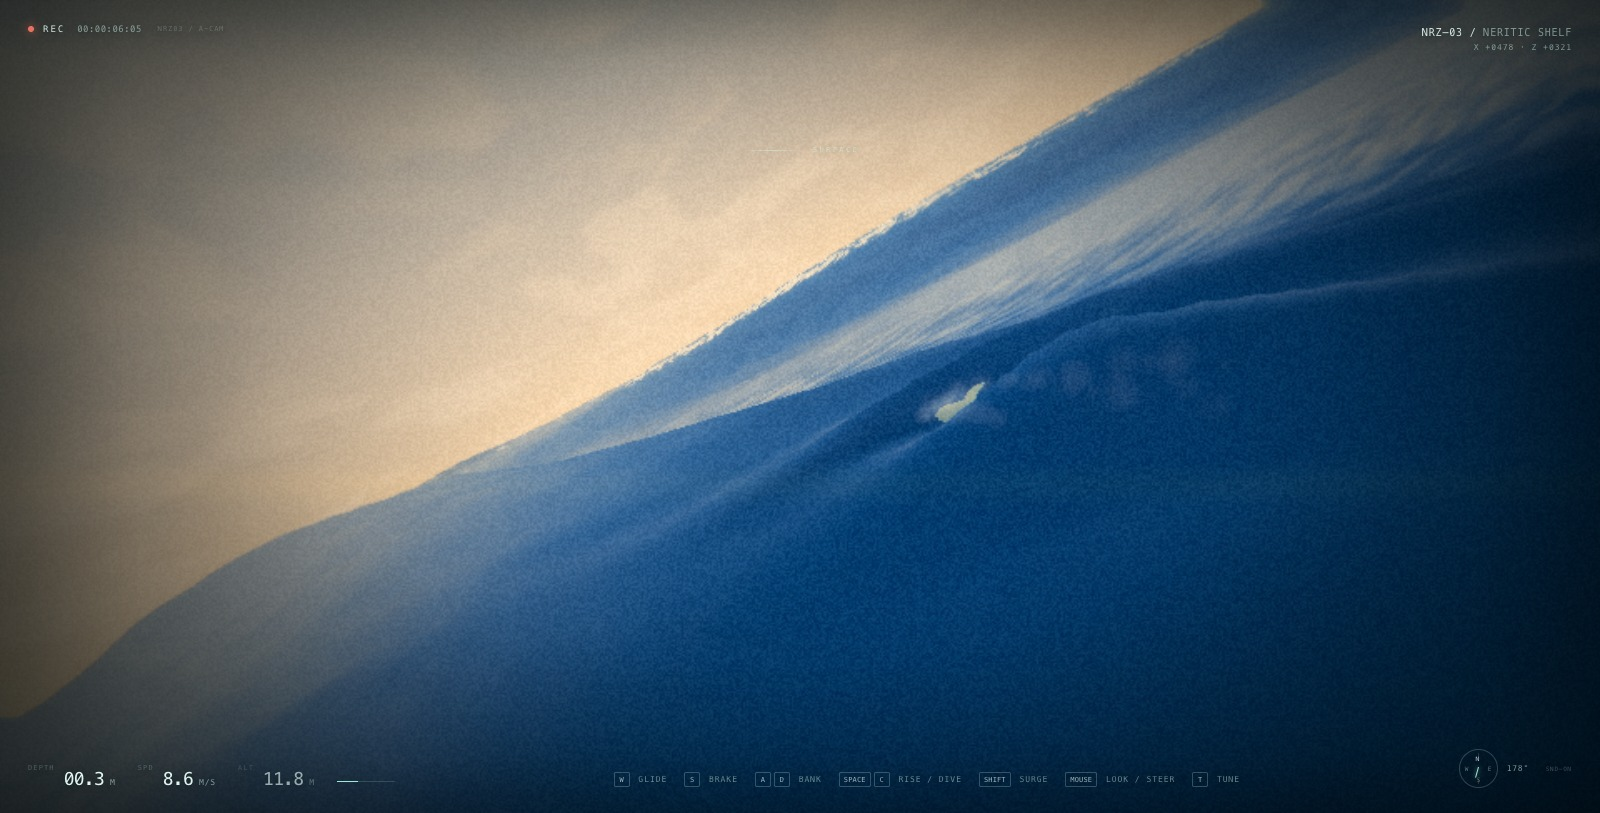
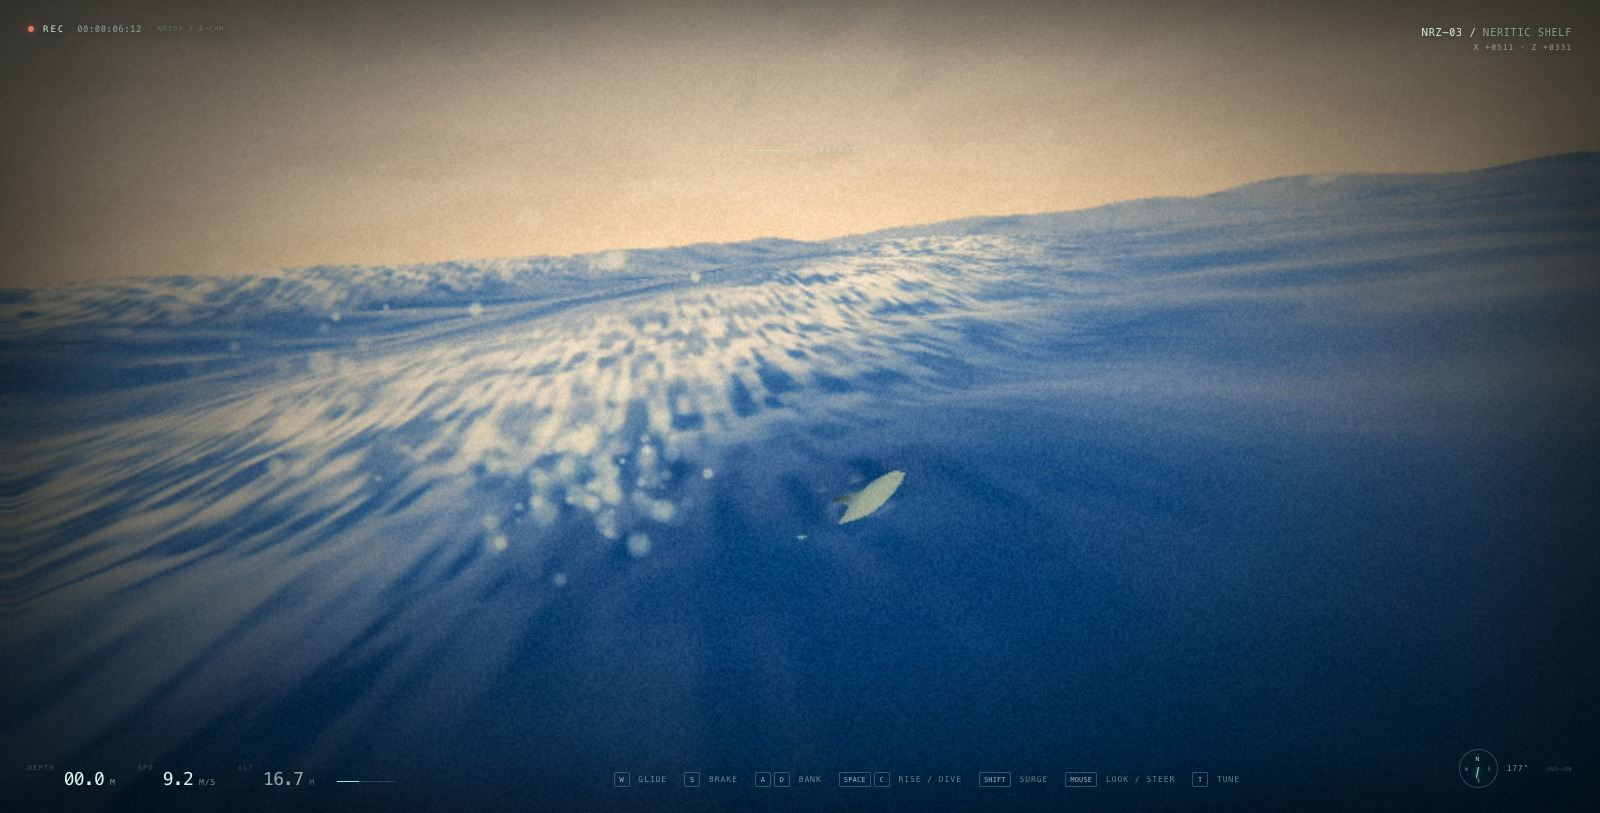
Reshape the big-wave arena into a rideable peak-and-shoulder break

diff --git a/src/config.js b/src/config.js
@@ -123,19 +123,19 @@ export const TUNING = {
     // Passive wave riding: a steep descending/along-face run fades the tail
     // stroke out and lets the local surface slope drive the body.
     coastSlope: 0.06,
-    // Surf contact: a soft attachment to a steep face. The body is held a
-    // little below the local surface, aligned to the face, and the tangential
-    // velocity is carved toward the heading instead of skating straight on.
+    // Surf contact: a soft attachment to a steep face. The body is held at the
+    // planing waterline, aligned to the face, and the tangential velocity is
+    // carved toward the heading instead of skating straight on.
     surfGrip: 10.0,
-    surfDepth: 0.35,
+    surfDepth: -0.15,
     surfMinSlope: 0.075,
     surfMinSpeed: 5.0,
     surfSpring: 70,
     surfDamp: 12,
     surfDrive: 0.9,
-    surfPump: 2.8,
+    surfPump: 2.0,
     surfCarry: 0.55,
-    surfGlide: 1.3,
+    surfGlide: 1.0,
     surfAttitude: 5.5,
     surfFaceRoll: 0.65,
     surfBank: 1.7,
@@ -242,21 +242,21 @@ export const TUNING = {
     preset: "surf",
     surfZoneX: 450,
     surfZoneZ: 300,
-    swellHeight: 18,
-    swellWavelength: 300,
-    swellWavelengthSpread: 0.08,
+    swellHeight: 13.5,
+    swellWavelength: 320,
+    swellWavelengthSpread: 0.14,
     swellDirection: 0.61,
-    swellDirectionSpread: 0.08,
+    swellDirectionSpread: 0.17,
     swellComponents: 96,
-    windSeaHeight: 0.25,
-    windSeaWavelength: 24,
+    windSeaHeight: 1.1,
+    windSeaWavelength: 46,
     windSeaWavelengthSpread: 0.35,
-    windSeaDirection: 1.02,
-    windSeaDirectionSpread: 0.62,
+    windSeaDirection: 1.55,
+    windSeaDirectionSpread: 0.7,
     windSeaComponents: 32,
     // Gerstner horizontal displacement scale. The generator computes a safe
     // base value from the total steepness; this is an artistic multiplier.
-    chop: 0.45,
+    chop: 0.36,
     timeScale: 1.0,
     startTime: 4.5,
     // Rendering / foam.
@@ -267,12 +267,12 @@ export const TUNING = {
     // dispersion and Green's-law shoaling using the baked bathymetry; the
     // breaker is a saturated, aerated crest (a heightfield cannot overhang).
     depthResponse: true,
-    shoalReference: 12,
-    shoalStrength: 0.25,
-    breakRatio: 0.85,
-    breakSoftness: 0.08,
+    shoalReference: 14,
+    shoalStrength: 0.18,
+    breakRatio: 0.9,
+    breakSoftness: 0.1,
     breakerJet: 0.35,
-    breakerLip: 0.22,
+    breakerLip: 0.12,
     aerationAmount: 0.85,
     foamPersistence: 0.6,
     // Local nonlinear shallow-water solver over the surf bank. The domain is

diff --git a/src/utils.js b/src/utils.js
@@ -111,13 +111,19 @@ export function seabedHeight(x, z) {
   const sCross = dsx * swellX + dsz * swellZ;
   const sAlong = -dsx * swellZ + dsz * swellX;
   const ridgeAlong = 1 - smoothstep(240, 360, Math.abs(sAlong));
-  const basinDepth = smoothstep(-40, -220, sCross) * 20;
-  const leeDepth = smoothstep(20, 120, sCross) * 10;
-  // A broad central peak and gentle shoulders break the wall into a peeling
-  // point break; the long-wavelength ripple avoids a perfectly uniform crest.
-  const crestPeak = Math.exp(-(sAlong * sAlong) / (2 * 150 * 150)) * 2.8;
-  const crestRipple = Math.sin(sAlong / 95) * 1.5 + Math.sin(sAlong / 41 + 1.2) * 0.55;
-  const arenaDepth = 18 + basinDepth + leeDepth - crestPeak + crestRipple;
+  // Bow the break line into a point break instead of a straight wall.
+  const sCrossCurve = sCross + Math.sin((sAlong + 35) / 190) * 14;
+  const basinDepth = smoothstep(-40, -220, sCrossCurve) * 20;
+  const leeDepth = smoothstep(20, 120, sCrossCurve) * 10;
+  // A defined peak with a long, deeper shoulder to one side makes the wave
+  // peel and gives a rideable face instead of a uniform crest.
+  const peakAlong = -35;
+  const crestPeak =
+    Math.exp(-((sAlong - peakAlong) * (sAlong - peakAlong)) / (2 * 105 * 105)) * 3.8;
+  const crestShoulder = smoothstep(0, 330, sAlong - peakAlong) * 2.2;
+  const crestRipple = Math.sin(sAlong / 82) * 1.1 + Math.sin(sAlong / 37 + 1.2) * 0.4;
+  const arenaDepth =
+    18 + basinDepth + leeDepth - crestPeak + crestShoulder + crestRipple;
 
   // Patchy reef shelf outcrops, slight raised humps.
   const shelf = Math.max(0, fbm(x * 0.0072 + 51.1, z * 0.0072 + 4.4, 2) - 0.5) * 2.7;

diff --git a/src/dolphin.js b/src/dolphin.js
@@ -950,11 +950,18 @@ export class Dolphin {
       // Soft ceiling. Crest pressure can throw a light, half-wet hull several
       // metres into the air; unless the player is boosting or asking to rise,
       // settle the back onto the waterline instead of letting it hover.
-      const capDist = targetDist + 0.55;
+      const capDist = targetDist + 0.4;
       if (!input.boost && dist > capDist) {
-        const pull = 1 - Math.exp(-18 * dt);
+        const pull = 1 - Math.exp(-30 * dt);
         this.position.y -= (dist - capDist) * pull;
-        if (this.velocity.y > 0) this.velocity.y *= 1 - 0.8 * pull;
+        if (this.velocity.y > 0) this.velocity.y *= 1 - 0.9 * pull;
+      }
+      // Hard ceiling for an unpowered ride: wave lift can still outrun the
+      // spring, but it should not turn a normal glide into a hover. Space/C or
+      // boost releases the contact before this matters.
+      if (!input.boost && this.position.y > surfWater.height + capDist + 0.25) {
+        this.position.y = surfWater.height + capDist + 0.25;
+        if (this.velocity.y > 0) this.velocity.y *= 0.25;
       }
 
       // Damped surface follow. The spring alone leaves a static offset when

diff --git a/src/water/spectrum.js b/src/water/spectrum.js
@@ -150,15 +150,15 @@ export function applyPreset(water, name) {
       foamAmount: 0.8,
     },
     surf: {
-      swellHeight: 18,
-      swellWavelength: 300,
-      windSeaHeight: 0.25,
-      windSeaWavelength: 24,
+      swellHeight: 13.5,
+      swellWavelength: 320,
+      windSeaHeight: 1.1,
+      windSeaWavelength: 46,
       swellDirection: 0.61,
-      windSeaDirection: 1.02,
-      chop: 0.45,
+      windSeaDirection: 1.55,
+      chop: 0.36,
       timeScale: 1.0,
-      foamAmount: 0.9,
+      foamAmount: 0.8,
     },
   };
   const p = presets[name];

diff --git a/README.md b/README.md
@@ -60,8 +60,8 @@ The full debug surface is available as `window.OCEAN` (ocean, seabed, dolphin, c
 - **Dolphin movement** — heading/pitch/roll flight model with angular inertia, automatic bank into the turn, and hull-force translation. Thrust is quick enough for a standing-start burst; the default surge target is **25 m/s** with **18 m/s²** boost acceleration. High-speed surface exits get a tail kick; airborne motion uses **12.5 m/s²** gravity, low lift, snappy vertical drag and snout-led air steering so a fast breach arcs back down instead of hanging. A small near-surface settling force pulls a dry, fast body back into the water when there is no upward intent, so it porpoises instead of skimming above the surface. Steering still commands the snout/attitude directly, while translation is force-driven and can be carried, turned or thrown by the water.
 - **Procedural skeletal spine** — the model is a GPU-skinned 9-bone chain. The snout is anchored to the mouse target and the camera orbits from that same look frame, so the view responds immediately while each following segment keeps its own direction, damps toward the segment ahead and is clamped to an anatomical joint cone (`headBendLimit` at the neck, `bodyBendLimit` down the spine). Fixed segment lengths and a torso-to-fluke swimming wave give the body a semi-rigid, fluid trail. The wave's frequency and amplitude follow actual swim speed and acceleration, so a burst of acceleration produces a stronger, faster stroke; the fluke adds a lagging pitch that tracks the same effort.
 - **Snout-led camera** — the chase view orbits from the same yaw/pitch target that drives the snout, with light smoothing rather than physics-body lag. The body, velocity and spine still trail behind, but the view, compass and aim lead with the animal's head.
-- **Waves** — a seeded, two-train directional spectrum: a narrow JONSWAP swell (96 components, default **18 m Hs / 300 m peak**, long crests and generous sets) plus a broader wind sea (32 components, offset direction). Both are explicit Gerstner sums with one shared deterministic clock. The exact component arrays are uploaded to the vertex shader and evaluated by `src/water/field.js` on the CPU, so `OCEAN.water.sampleHeight()` / `sampleWater()` and the rendered GPU patch agree to **mean 0.01 cm / max 0.04 cm** in the parity probe (a shader-side horizontal-displacement bug was found and fixed in M2). The surface is a camera-following radial clipmap out to 7 km; fragment shading adds three non-commensurate procedural ripple cascades (53 m, 17 m, 5.7 m), distance normal filtering, Schlick Fresnel with the existing sky palette, sun glitter, depth absorption from the bathymetry map, crest transmission and whitecaps derived from local slope, crest height and Jacobian compression. Seen from below, the underside splits into a critical-angle Snell window and total internal reflection with a turquoise rim; the full Snell/caustic pass is M5 work.
-- **Depth response, shoaling and breaking (M3; big-wave arena)** — a shared 256² bathymetry field (baked from the same `seabedHeight()` used by the sand, reef and floor collision) drives finite-depth dispersion (`k/k0 = 1/sqrt(tanh(k0 h))`), Green's-law shoaling (`H ∝ h^-1/4`), local phase speed and a refraction-like phase gradient through the local wavenumber. The default arena is a **long straight reef wall at (450, 300)**, aligned across the swell: a ~38 m basin on the seaward side shoals uniformly onto an ~18 m crest, with a controlled deep floor so the big-wave troughs cannot expose sand. The 18 m Hs, 300 m swell breaks into **20–30 m faces along one continuous wall** with generous set spacing. Breaking is triggered by `Hs_local / h` (default ratio **0.85**, softness ±0.08), with an Iribarren classification from the local bed slope (spilling <0.5, plunging 0.5–3.3, surging >3.3). The heightfield cannot overhang, so the plunging lip is a forward-shifted crest bump, a dark tube band and a foam tongue; there is no amplitude-focus multiplier and no vertex fold. The velocity field gets a crest-gated breaker jet, and aeration is gated by the crest so the animal is not pulled down in the trough. Foam streaks run down the upper face, and a dark band under the lip reads as the tube opening. The deterministic finite-depth spectral model keeps CPU and GPU on exactly the same field, has no window seams or readback latency, and runs at 60 fps; the trade-off is that it is not a nonlinear solver and is documented as an approximation.
+- **Waves** — a seeded, two-train directional spectrum: a JONSWAP swell (96 components, default **13.5 m Hs / 320 m peak**, with a broader directional and wavelength spread) plus a **1.1 m cross-sea** (32 components, 46 m, offset ~54°). Both are explicit Gerstner sums with one shared deterministic clock. The exact component arrays are uploaded to the vertex shader and evaluated by `src/water/field.js` on the CPU, so `OCEAN.water.sampleHeight()` / `sampleWater()` and the rendered GPU patch agree to **mean 0.01 cm / max 0.04 cm** in the parity probe (a shader-side horizontal-displacement bug was found and fixed in M2). The surface is a camera-following radial clipmap out to 7 km; fragment shading adds three non-commensurate procedural ripple cascades (53 m, 17 m, 5.7 m), distance normal filtering, Schlick Fresnel with the existing sky palette, sun glitter, depth absorption from the bathymetry map, crest transmission and whitecaps derived from local slope, crest height and Jacobian compression. Seen from below, the underside splits into a critical-angle Snell window and total internal reflection with a turquoise rim; the full Snell/caustic pass is M5 work.
+- **Depth response, shoaling and breaking (M3; big-wave arena)** — a shared 256² bathymetry field (baked from the same `seabedHeight()` used by the sand, reef and floor collision) drives finite-depth dispersion (`k/k0 = 1/sqrt(tanh(k0 h))`), Green's-law shoaling (`H ∝ h^-1/4`), local phase speed and a refraction-like phase gradient through the local wavenumber. The default arena is a **curved peak-and-shoulder reef at (450, 300)** aligned across the swell: a ~38 m seaward basin shoals onto a ~14–20 m crest, with a controlled deep floor so the big-wave troughs cannot expose sand. The **13.5 m Hs, 320 m** swell breaks into a broad, peeling face of roughly **20 m** instead of one continuous vertical wall. A 3.8 m shallow peak at `sAlong ≈ −35 m`, a 2.2 m deeper shoulder to one side, a bowed break line (`sin(sAlong/190)`) and a cross-sea break the crest into sections and soften the face. Breaking is triggered by `Hs_local / h` (default ratio **0.9**, softness ±0.10), with an Iribarren classification from the local bed slope (spilling <0.5, plunging 0.5–3.3, surging >3.3). The heightfield cannot overhang, so the plunging lip is a small forward-shifted crest bump (`breakerLip` **0.12**), a dark tube band and a foam tongue; there is no amplitude-focus multiplier and no vertex fold. The velocity field gets a crest-gated breaker jet, and aeration is gated by the crest so the animal is not pulled down in the trough. Foam streaks run down the upper face, and a dark band under the lip reads as the tube opening. The deterministic finite-depth spectral model keeps CPU and GPU on exactly the same field, has no window seams or readback latency, and runs at 60 fps; the trade-off is that it is not a nonlinear solver and is documented as an approximation.
 - **Hull hydrodynamics / emergent surfing (M2)** — a 170-panel surface of revolution (15 stations × 10 radial panels + end caps) is matched to a displaced volume of **0.58 m³**, giving a **595 kg** animal at neutral density. Forces are integrated at 120 Hz (two substeps) from hydrostatic pressure, wave dynamic pressure (Froude–Krylov), quadratic normal and skin-friction drag relative to the local water velocity, an extra slam coefficient while panels first immerse, and pectoral/fluke lift. Effective mass is anisotropic (added mass: 0.1 forward / 1.0 lateral / 1.0 vertical). Lung buoyancy is positive near the surface, decays with depth and fades with speed, so a passive animal floats and bobs while a cruising animal is neutral at 5–6 m depth. The wave kinematics are refreshed once per frame and reused for the two force substeps to keep the CPU under budget. On a 19° deep-water face at 9.5 m/s the wave field supplied **2.77 m/s²** (M2 measurement); with depth response on a 19° shoaling face it supplies **1.29 m/s²**, about **40%** of the 3.23 m/s² cruise thrust, and a matched-wet flat-water comparison required **4.46 m/s²**.
 - **Soft surf contact and carve grip (post-M8)** — on a steep face at speed the animal attaches to the local surface plane at a planing waterline. A normal spring, a damped surface-follow and a soft ceiling hold it at depth and track the face as it rises or falls; crest pressure can no longer throw a light, half-wet hull into a hover unless the player boosts. The ridden line blends the player's heading with the local wave travel (`surf wave carry`), scaled down when the player deliberately points down the face, so a natural across/up line stays with the moving face instead of being left behind. Tangential momentum is rotated toward that line (`surf carve grip`) with speed mostly preserved and a small rail bite. Attitude follows the face: the visible spine blends from the snout-led mouse target onto the physical face pitch (`poseBlend`), pitch tracks the slope along the nose, and roll combines the cross-face normal, the player's carve bank and the face lean. The contact releases on a flat crest, `Space`/`C`, speed below ~3.5 m/s, a boosted launch, or leaving the face. The debug **SURF** line reports **contact**, plus the local slope, phase speed, carry, line speed and pump.
 - **Porpoise ↔ coast state (post-M8)** — the tail stroke is a continuous blend, not a mode switch. The state is classified from the **velocity along the slope**, not from the blended nose: climbing (or boosting/braking/pitching) targets full **active porpoising** with tail undulation and thrust, while a descending run fades `strokeAmount` toward zero and reports **coast**; tail heave, fluke pitch, phase advance and active thrust all scale with it. A wave-energy pump along the line targets the local phase speed, so a zero-stroke coast carries speed rather than stalling. In the dedicated coast capture the animal held **77% contact** (releasing as the face flattened), faded the stroke to **0.01**, and ran **13.6 → 12.6 m/s** down the face. A separate climbing ride held **100% contact** at **10.7 m/s mean / 11.8 m/s max** against a **12.3 m/s** phase speed with the body roll at only **0.08–0.09 rad**; an earlier 70° auto-bank bug came from the wave-carry yaw being counted as a carve turn, which is now excluded.
@@ -96,7 +96,7 @@ Metal ANGLE, 1600×900, render scale 0.6, 0.75 s rolling averages, 60 Hz link.
 | dolphin on the face | 16.7 ms | 13.9 ms | 0.42 ms | 0.23 ms | 2.16 ms | 0.05 ms | 25 | 568,976 |
 | shoaling-break ride | 16.7 ms | 11.8 ms | 0.40 ms | 0.36 ms | 2.27 ms | 0.10 ms | 25 | 568,976 |
 
-The ridge view is intentionally GPU-heavier than the old calm bank because the camera sees the whole 20–30 m wall and its foam; the playable chase views sit lower. The GPU timer is noisier than frame pacing: the surf-riding captures hold 60 fps / 16.7 ms with no dropped frames.
+The ridge view is intentionally GPU-heavier than the old calm bank because the camera sees the whole peak-and-shoulder face and its foam; the playable chase views sit lower. The GPU timer is noisier than frame pacing: the surf-riding captures hold 60 fps / 16.7 ms with no dropped frames.
 
 ## Project layout
 
